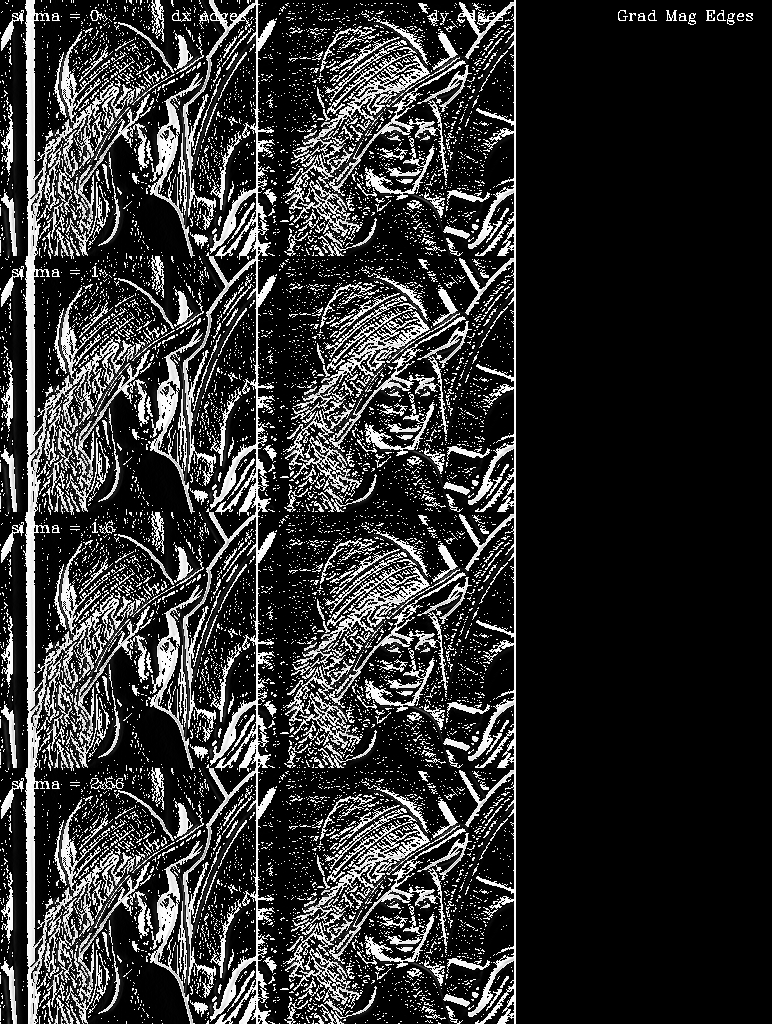
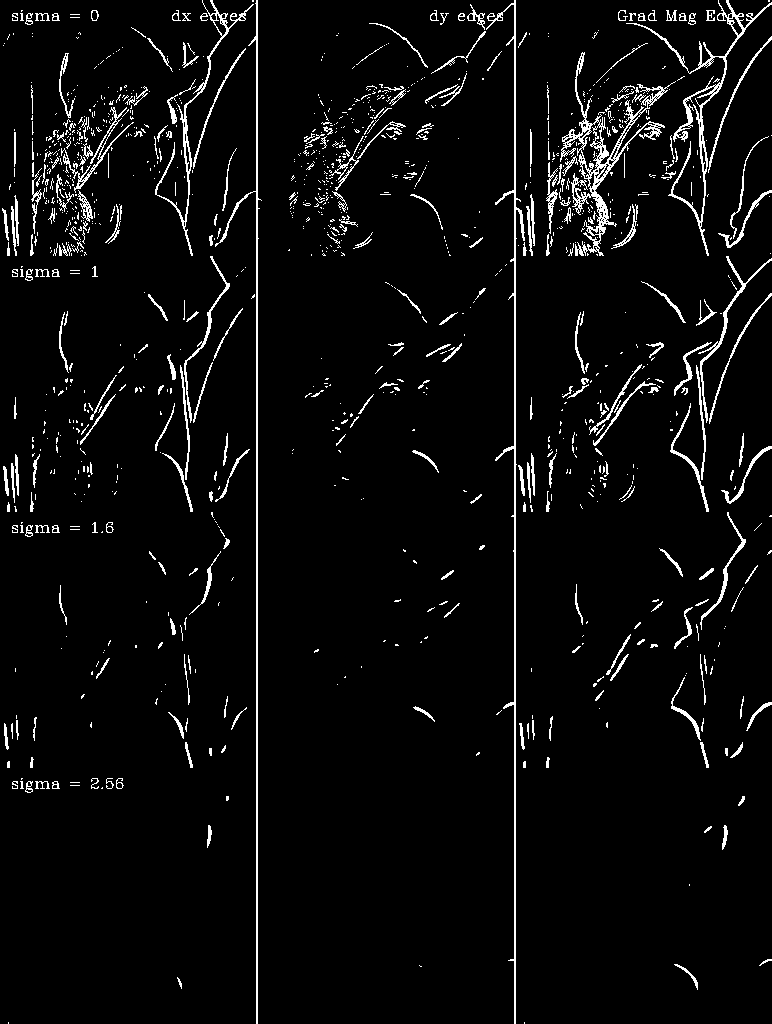
Add answers for 2.2

diff --git a/Exercise2/exercise2.py b/Exercise2/exercise2.py
@@ -33,6 +33,7 @@ def ComputeGradients(image):
   
   return dx, dy, gradMag, dx2, dy2, laplacian
 
+# Helper method for 2.1.b
 def convertToMag(src):
   (iend, jend) = src.shape
   
@@ -56,22 +57,25 @@ def ComputeEdges(dx, dy, gradientMagnitude):
   
   return dxEdges, dyEdges, gradientMagnitudeEdges
 
-# TODO finish this for exercise 2.1.c
+# 2.1.c
 def ComputeCanny(image):
 
-  # TODO: Compute Canny edges (using second-order gradient).
+  # Compute Canny edges (using second-order gradient).
+  # n.b. intensity values in 'image' are 8 bit
+  
+  image = cv2.Canny(image, 128, 192)
 
   return image
 
 # Exercise 2.2 ----------------------------------------------------------------------
 
-# TODO finish for exercise 2.2
+# 2.2
 def scaleSpaceEdges(image):
 
   # calculating gaussians of an image
-  gauss1 = image;
-  gauss2 = image;
-  gauss3 = image;
+  gauss1 = cv2.GaussianBlur(image, (0, 0), 1.0)
+  gauss2 = cv2.GaussianBlur(image, (0, 0), 1.6)
+  gauss3 = cv2.GaussianBlur(image, (0, 0), 2.56)
 
   # calculate the edges using code from previous exercises
   dx1, dy1, gradMag1 = ComputeGradients(image)[:3]
